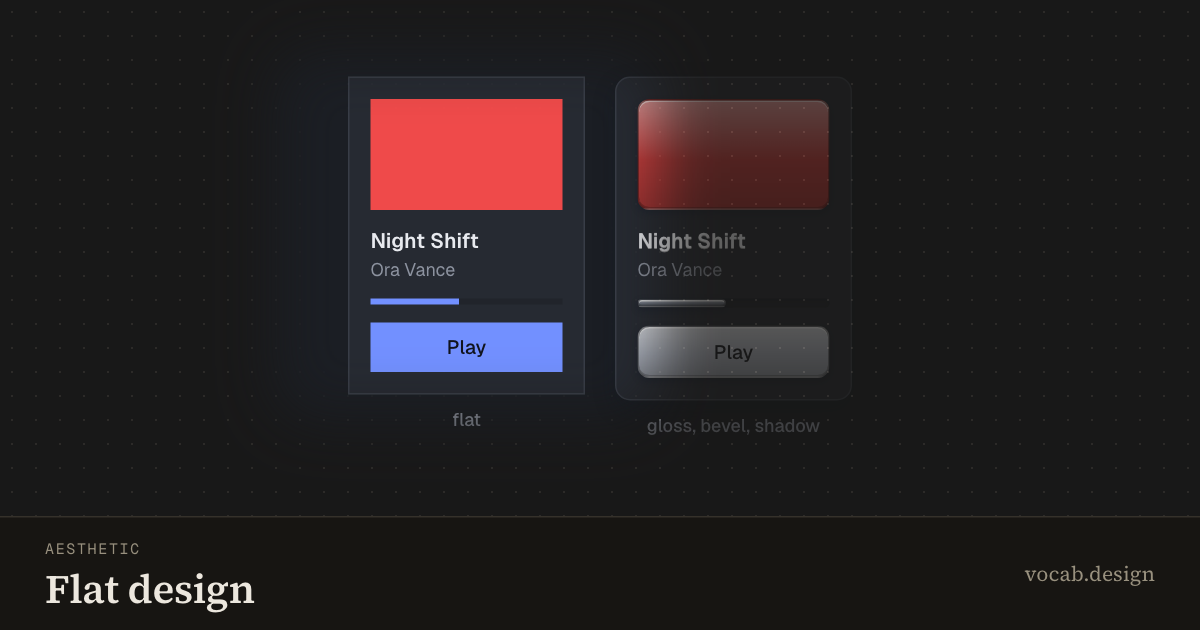
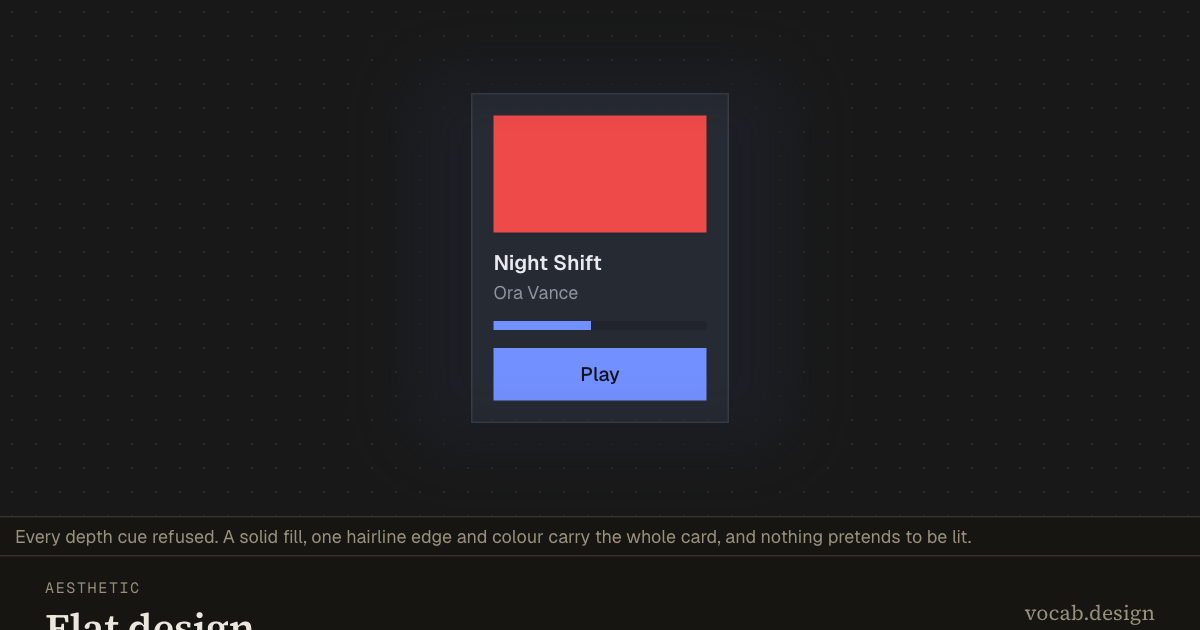
Draw flat design against itself, and queue the demos that still draw a foil
Flat design drew a glossed card beside a flat one, a small word under each, and left
the reader to work out which half was the headword. It now draws ONE card, and the
exhibit's own switch restyles it: `Flat design: Without | With`, drawn by the stage in
the strip, with the treatment described in the verdict lane. The card declares
`data-pose="[data-mode=flat]"`, so identify refuses to pose the glossed state and
resets to the mount state, which is flat.

Only paint changes between the two states. That needed the bevel's border reserving:
`.sp-swatch` and `.sp-button` declare no border and `.sp-bevel` adds a 1px one, so the
card grew by 2px as the gloss arrived. Both now carry a transparent border at rest and
only its colour changes, and every part's box is identical either way.

The rest of the family is queued rather than fixed, with flat design as the worked
example: `switchless-contrast` in the sweep ledger, and a detector that shortlists 55
demos carrying no mode switch that still repeat a block and let the repeat decide which
copy is the subject. It cannot tell a comparison from an anatomy (chamfer draws three
corner treatments because the term is one of three), so that is the judge's first
question.

diff --git a/src/content/demos/flat-design/demo.ts b/src/content/demos/flat-design/demo.ts
@@ -1,46 +1,95 @@
+import { part } from '#src/kit/parts.ts';
+import '#src/kit/segmented.ts';
+
+type Mode = 'depth' | 'flat';
+
+const VERDICT: Record<Mode, string> = {
+  depth: 'The pre-2013 treatment: a gloss on the artwork, a bevel on the button, a rounded corner and a cast shadow under the card.',
+  flat: 'Every depth cue refused. A solid fill, one hairline edge and colour carry the whole card, and nothing pretends to be lit.',
+};
+
 /**
- * Flat design specimen: the same card twice. The subject refuses every depth cue,
- * so a solid fill, an edge, and colour carry the whole thing; the scenery copy beside
- * it is the pre-2013 treatment, with a gloss, a bevel, and a shadow on each piece.
- * The comparison is the demonstration, since flat is defined by what it leaves out.
+ * Flat design specimen: one card, and a switch between refusing every depth cue and the
+ * treatment flat design replaced. It used to draw both cards at once, side by side with a
+ * small word under each, which asks the reader to work out which half is the term and puts
+ * the counter-example on stage at equal weight forever (SPEC §5.1). The switch is the
+ * exhibit's, so the stage draws it in the strip.
  *
- * `data-loop="keep"`: nothing here holds state, so the pass ends at the mount state it began in, and attract
- * iterations reuse this tree instead of rebuilding it under a reader inspecting it.
+ * The subject is the card, and it is only the term in one of the two states, so the honest
+ * condition is declared: identify refuses to pose the glossed state and resets to the mount
+ * state, which is flat.
+ *
+ * Only paint changes between the states. The card's box, its copy and every child's position
+ * are identical either way, so flipping the switch moves nothing (SPEC §5).
  */
 export function mount(root: HTMLElement): void {
   root.innerHTML = `
-    <div class="sp-app" data-loop="keep">
-      <div class="sp-row" style="align-items: flex-start; gap: 20px">
-        <div class="sp-stack" style="gap: 8px">
-          <div data-part="flat" data-subject
-               style="width: 158px; padding: 14px; background: var(--sp-surface); border: 1px solid var(--sp-line)">
-            <div class="sp-swatch" style="--sp-swatch: #ef4a4a; height: 74px; border-radius: 0"></div>
-            <div style="margin-top: 10px; font-weight: 600; font-size: 14px">Night Shift</div>
-            <div class="sp-text" style="font-size: 12px">Ora Vance</div>
-            <div style="height: 4px; margin-top: 10px; background: var(--sp-sunken)">
-              <div style="width: 46%; height: 100%; background: var(--sp-accent)"></div>
-            </div>
-            <button class="sp-button" type="button"
-                    style="width: 100%; margin-top: 12px; border-radius: 0; font-size: 13px">Play</button>
-          </div>
-          <span class="sp-label" style="text-align: center">flat</span>
-        </div>
+    <div class="sp-app">
+      <sp-segmented data-stage-mode class="sp-segmented" data-part="mode" data-value="flat"
+                    data-axis="Flat design" data-term="flat">
+        <button class="sp-segment" type="button" data-part="mode-depth" value="depth">Without</button>
+        <button class="sp-segment" type="button" data-part="mode-flat" value="flat">With</button>
+      </sp-segmented>
 
-        <div class="sp-stack sp-context" style="gap: 8px">
-          <div data-part="depth"
-               style="width: 158px; padding: 14px; background: var(--sp-surface); border: 1px solid var(--sp-line); border-radius: 10px; box-shadow: 0 6px 14px rgb(16 24 40 / 0.28)">
-            <div class="sp-swatch sp-bevel" style="--sp-swatch: #c03b3b; height: 74px"></div>
-            <div style="margin-top: 10px; font-weight: 600; font-size: 14px; text-shadow: 0 1px 0 rgb(255 255 255 / 0.5)">Night Shift</div>
-            <div class="sp-text" style="font-size: 12px">Ora Vance</div>
-            <div style="height: 6px; margin-top: 10px; border-radius: 999px; background: var(--sp-sunken); box-shadow: inset 0 1px 2px rgb(16 24 40 / 0.4)">
-              <div class="sp-bevel" style="width: 46%; height: 100%; border-radius: 999px; background-color: #6b7280"></div>
-            </div>
-            <button class="sp-button sp-bevel" type="button"
-                    style="width: 100%; margin-top: 12px; font-size: 13px">Play</button>
-          </div>
-          <span class="sp-label" style="text-align: center">gloss, bevel, shadow</span>
+      <div data-part="card" data-subject data-mode="flat" data-pose="[data-mode=flat]"
+           style="width: 172px; padding: 14px; background: var(--sp-surface); border: 1px solid var(--sp-line)">
+        <!-- .sp-swatch and .sp-button both declare no border and .sp-bevel adds a 1px one, so
+             every element that takes the bevel reserves that border in the flat state too. The
+             card would otherwise grow as the gloss arrives, which is a shift the reader did not
+             ask for (SPEC §5). -->
+        <div class="sp-swatch" data-part="art"
+             style="--sp-swatch: #ef4a4a; height: 78px; border-radius: 0; border: 1px solid transparent"></div>
+        <div data-part="title" style="margin-top: 10px; font-weight: 600; font-size: 14px">Night Shift</div>
+        <div class="sp-text" style="font-size: 12px">Ora Vance</div>
+        <div data-part="track" style="height: 6px; margin-top: 10px; background: var(--sp-sunken)">
+          <div data-part="fill" style="width: 46%; height: 100%; background: var(--sp-accent)"></div>
         </div>
+        <button class="sp-button" type="button" data-part="play"
+                style="width: 100%; margin-top: 12px; border-radius: 0; font-size: 13px;
+                       border: 1px solid transparent">Play</button>
       </div>
+
+      <p class="sp-text sp-context" data-stage-verdict data-part="verdict" data-mode="flat"
+         style="margin: 0">${VERDICT.flat}</p>
     </div>
   `;
+
+  const card = part(root, 'card');
+  const art = part(root, 'art');
+  const title = part(root, 'title');
+  const track = part(root, 'track');
+  const fill = part(root, 'fill');
+  const play = part(root, 'play');
+  const verdict = part(root, 'verdict');
+
+  const apply = (mode: Mode) => {
+    const deep = mode === 'depth';
+    card.dataset.mode = mode;
+    card.style.borderRadius = deep ? '10px' : '';
+    card.style.boxShadow = deep ? '0 6px 14px rgb(16 24 40 / 0.28)' : '';
+
+    art.classList.toggle('sp-bevel', deep);
+    art.style.setProperty('--sp-swatch', deep ? '#c03b3b' : '#ef4a4a');
+    art.style.borderRadius = deep ? '' : '0';
+    art.style.borderColor = deep ? 'rgb(0 0 0 / 0.34)' : 'transparent';
+
+    title.style.textShadow = deep ? '0 1px 0 rgb(255 255 255 / 0.5)' : '';
+
+    track.style.borderRadius = deep ? '999px' : '';
+    track.style.boxShadow = deep ? 'inset 0 1px 2px rgb(16 24 40 / 0.4)' : '';
+    fill.classList.toggle('sp-bevel', deep);
+    fill.style.borderRadius = deep ? '999px' : '';
+    fill.style.background = deep ? '#6b7280' : 'var(--sp-accent)';
+
+    play.classList.toggle('sp-bevel', deep);
+    play.style.borderRadius = deep ? '' : '0';
+    play.style.borderColor = deep ? 'rgb(0 0 0 / 0.34)' : 'transparent';
+
+    verdict.dataset.mode = mode;
+    verdict.textContent = VERDICT[mode];
+  };
+
+  part(root, 'mode').addEventListener('change', (event) => {
+    apply((event as CustomEvent<string>).detail as Mode);
+  });
 }

diff --git a/.claude/skills/specimen-sweep/detectors/switchless-contrast.ts b/.claude/skills/specimen-sweep/detectors/switchless-contrast.ts
@@ -1,0 +1,98 @@
+/**
+ * Switchless contrast: a demo that draws the term AND its foil at the same time, side by
+ * side, with no mode switch between them (SPEC §5.1). `flat-design` was the worked
+ * example: two cards at once, a small word under each, and the reader left to work out
+ * which half was the headword. It now draws one card and a stage-drawn switch restyles it.
+ *
+ * Two signals, either of which shortlists a demo that carries no `data-stage-mode`:
+ *
+ *   parallel  a block drawn two to four times where the repeat DECIDES which copy is the
+ *             subject and which is scenery: a template taking a `subject`/`context` flag
+ *             (`anticipation`'s `lane()`, `constructivism`'s `column()`), or a map whose
+ *             body puts `data-subject` or `sp-context` behind a ternary.
+ *   foil      two labels from one antonym pair standing as literal text (`arc-motion`'s
+ *             "Straight, one timing" against "Arc, a timing per axis").
+ *
+ * Recall-tuned, and it cannot tell a comparison from an anatomy: `chamfer` draws three
+ * corner treatments because the term is one of three, which is teaching rather than a foil.
+ * The output is a shortlist for a judge, never a worklist for a fixer.
+ *
+ *   bun .claude/skills/specimen-sweep/detectors/switchless-contrast.ts
+ */
+import { readFileSync, readdirSync } from 'node:fs';
+
+const ROOT = 'src/content/demos';
+
+const FOILS: [RegExp, RegExp][] = [
+  [/\bwith\b/i, /\bwithout\b/i],
+  [/\bbefore\b/i, /\bafter\b/i],
+  [/\bplain\b/i, /\b(eased|animated|styled|shaped)\b/i],
+  [/\bstraight\b/i, /\barc\b/i],
+  [/\blinear\b/i, /\b(eased|curved)\b/i],
+  [/\bflat\b/i, /\b(depth|glossed|bevel)/i],
+  [/\bno\s+\w+/i, /\bwith\s+\w+/i],
+  [/\bevery\s+\w+/i, /\bnone\b/i],
+  [/\bthe old\b/i, /\bthe new\b/i],
+];
+
+const decides = (body: string) =>
+  /\?[^`]{0,80}data-subject|data-subject[^`]{0,40}:\s*''/.test(body) ||
+  /\?[^`]{0,80}sp-context|sp-context[^`]{0,40}:\s*''/.test(body) ||
+  /\$\{\s*\w+\s*\?\s*'[^']*(?:data-subject|sp-context)/.test(body);
+
+const flagged = (params: string) => /\b(subject|context|foil|baseline|is[A-Z]\w*)\b/.test(params);
+
+/** The template literal that starts at `open`, so a signal reads one block and not the file. */
+const literal = (source: string, open: number) => {
+  const start = source.indexOf('`', open);
+  if (start < 0) return '';
+  for (let i = start + 1; i < source.length; i++) {
+    if (source[i] === '\\') i++;
+    else if (source[i] === '`') return source.slice(start, i);
+  }
+  return '';
+};
+
+const labels = (source: string) => [...source.matchAll(/>([A-Z][^<>{}`$]{3,44})</g)].map(([, text]) => text.trim());
+
+type Hit = { slug: string; evidence: string[] };
+const hits: Hit[] = [];
+
+for (const slug of readdirSync(ROOT).sort()) {
+  let source: string;
+  try {
+    source = readFileSync(`${ROOT}/${slug}/demo.ts`, 'utf8');
+  } catch {
+    continue;
+  }
+  if (source.includes('data-stage-mode')) continue;
+
+  const evidence: string[] = [];
+
+  for (const match of source.matchAll(/(?:const (\w+) = )?\(([^)]*)\)(?::[^=]*?)?\s*=>\s*`/g)) {
+    const [, name, params] = match;
+    const body = literal(source, match.index);
+    // A flagged template is a block whatever it draws: `constructivism`'s `column()` takes its
+    // parts as an argument, so requiring `data-part` in the literal would miss it.
+    if (!body.includes('data-part') && !flagged(params)) continue;
+    // `const lane = (...) =>` never spells `lane(`, so every match of the name IS a call site.
+    const calls = name ? [...source.matchAll(new RegExp(`\\b${name}\\(`, 'g'))].length : 2;
+    if (calls < 2 || calls > 4) continue;
+    if (decides(body) || flagged(params)) evidence.push(`parallel:${name ?? 'map'}() x${calls}`);
+  }
+
+  const text = labels(source);
+  for (const [left, right] of FOILS) {
+    const a = text.find((line) => left.test(line));
+    const b = text.find((line) => right.test(line) && line !== a);
+    if (a && b) {
+      evidence.push(`foil:"${a}" / "${b}"`);
+      break;
+    }
+  }
+
+  if (evidence.length) hits.push({ slug, evidence });
+}
+
+for (const hit of hits) console.log(`${hit.slug}\t${hit.evidence.join(' ')}`);
+console.error(`${hits.length} switchless candidates`);

diff --git a/src/content/demos/flat-design/choreography.ts b/src/content/demos/flat-design/choreography.ts
@@ -1,11 +1,26 @@
 import { steps } from '#src/stage/choreography.ts';
 
+/**
+ * Each segment reaches its own absolute state rather than toggling one (SPEC §8), so a pass
+ * joined halfway proves the same thing. The pass ends back on the flat card, which is the
+ * mount state and the only state in which the subject is the term.
+ */
 export default steps([
   { wait: 700 },
-  { moveTo: '[data-part=flat]' },
-  { assert: { selector: '[data-part=flat]', state: 'visible' } },
+  { assert: { selector: '[data-part=card][data-mode=flat]', state: 'visible' } },
+  { assert: { selector: '[data-part=verdict][data-mode=flat]', state: 'visible' } },
   { wait: 900 },
-  { moveTo: '[data-part=depth]' },
-  { assert: { selector: '[data-part=depth]', state: 'visible' } },
-  { wait: 1100 },
+
+  { moveTo: '[data-part=mode-depth]' },
+  { click: true },
+  { wait: 800 },
+  { assert: { selector: '[data-part=card][data-mode=depth]', state: 'visible' } },
+  { assert: { selector: '[data-part=verdict][data-mode=depth]', state: 'visible' } },
+  { wait: 1400 },
+
+  { moveTo: '[data-part=mode-flat]' },
+  { click: true },
+  { wait: 800 },
+  { assert: { selector: '[data-part=card][data-mode=flat]', state: 'visible' } },
+  { wait: 1000 },
 ]);

diff --git a/.claude/skills/specimen-sweep/COMPLAINTS.md b/.claude/skills/specimen-sweep/COMPLAINTS.md
@@ -1035,3 +1035,44 @@ complete; until then entries only accumulate. Entry format:
 - Verify: as above, plus a check that nothing the demo's code queries was deleted with the
   markup: `sensory-characteristics` kept `part(root, 'mark')` after its icon was removed
   and threw on mount, which the leftover probe caught only as "strip not drawn".
+
+## switchless-contrast
+
+- Queued: 2026-08-30 · Status: queued (55 candidates, roughly half of them real)
+- Rule: a specimen shows the term. When it also shows the term's foil, the two are states
+  of ONE thing and the reader moves between them with the exhibit's own switch, drawn by
+  the stage in the strip (SPEC §5.1). Drawing both at once, side by side with a small word
+  under each, leaves the counter-example on stage at equal weight forever and asks the
+  reader to work out which half is the headword. The pair is also the deceptive-pattern
+  family's spelling read backwards: `With | Without` on a switch says which side is the
+  word, two columns labelled "Straight, one timing" and "Arc, a timing per axis" do not.
+- Worked example: `flat-design`, fixed 2026-08-30. It drew a glossed card beside a flat one;
+  it now draws ONE card and a `Flat design: Without | With` switch restyles it in place,
+  with the treatment described in the strip's verdict lane and `data-pose="[data-mode=flat]"`
+  so identify refuses to pose the glossed state.
+- Detector: `detectors/switchless-contrast.ts` (recall-tuned, 55 as of queueing). Two
+  signals on demos carrying no `data-stage-mode`: a block drawn 2-4 times where the repeat
+  decides which copy is `data-subject` and which is `sp-context` (`anticipation`'s `lane()`,
+  `constructivism`'s `column()`, `debounce`'s `panel()`), and two labels from one antonym
+  pair standing as literal text (`arc-motion`). It cannot see a demo whose repeat is neither
+  (`corner-radius`), and it deliberately shortlists three-way anatomies it cannot tell from
+  foils, which is the judge's first question.
+- Judge: **are these copies a comparison or an anatomy?** An anatomy stays: `chamfer` draws
+  three corner treatments because the term is one of three ways to end a corner, and a states
+  row, a type scale or a swatch set is a single exhibit whose members are not each other's
+  foil. A comparison converts: two copies, one of them the term and the other its absence.
+  A demo whose animation is the point (`squash-and-stretch`, `compositor-animation`) is still
+  a comparison; playing both at once does not make it an anatomy.
+- Recipe: collapse the pair into one element and restyle it from an `<sp-segmented>` marked
+  `data-stage-mode`, `Without | With` in that order (baseline then change). Name the axis with
+  `data-axis`, and add `data-term` where the switch's own value IS the headword, which is the
+  usual case here. Declare `data-pose` on the subject naming the state in which it is still
+  the term, and MOUNT in that state. Move the per-copy words into the strip's verdict lane
+  (`data-stage-verdict`), keyed to the mode, and delete the labels they replace. Reserve any
+  geometry the foil adds: `.sp-bevel`, `.sp-button--ghost` and friends declare a 1px border
+  that `.sp-swatch` and `.sp-button` do not, so the flat state needs `border: 1px solid
+  transparent` or the card grows by 2px as the switch flips (SPEC §5).
+- Verify: `bun validate` (the unkeyed-switch and pose gates both bite here), then measure
+  every part's box in BOTH states and require an empty diff, which is what caught
+  flat-design's 2px. The choreography must reach each segment absolutely, never toggle, and
+  end back on the mount state.
